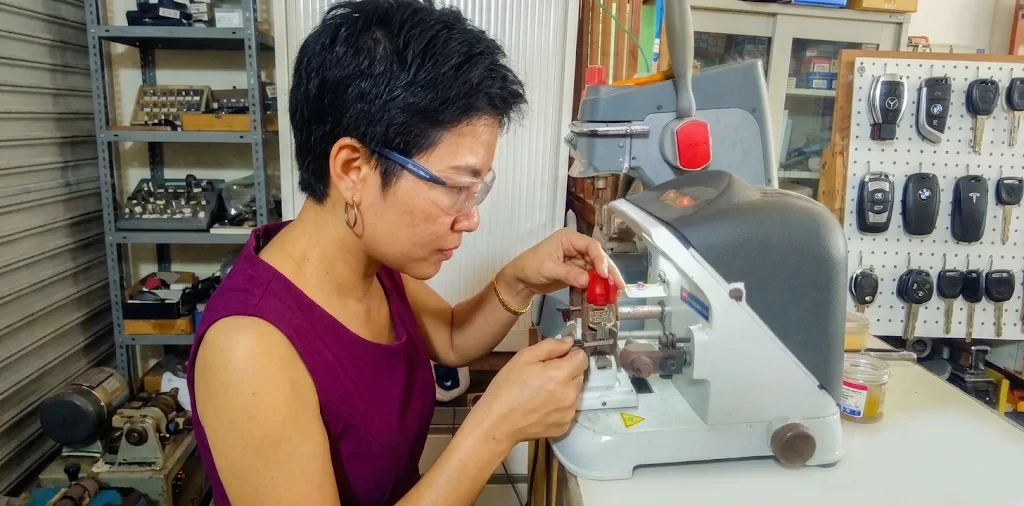
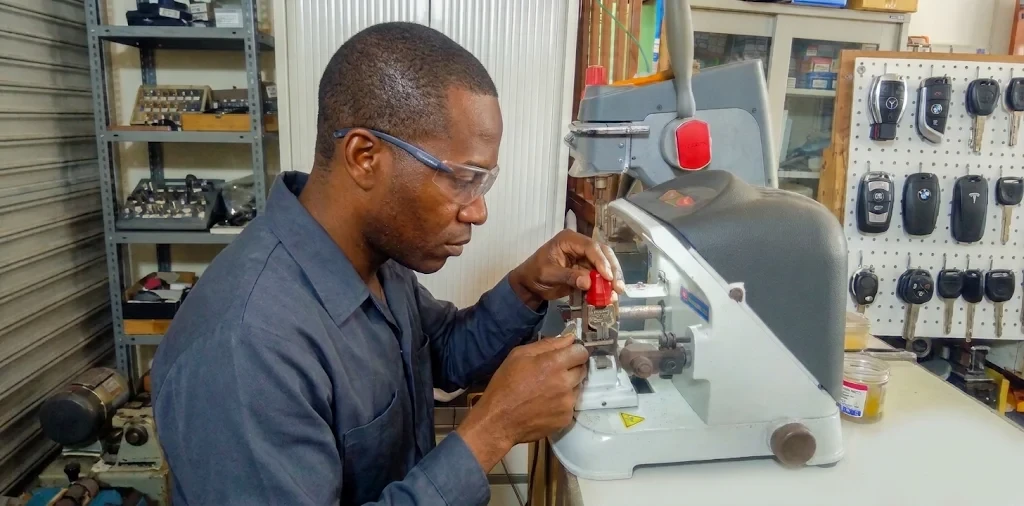
feat(accueil): nouvelle photo du technicien à la machine à clés
- Remplace la photo dans le diaporama et la section « Refonte de clés »
- Paramètre ?v=2 pour que les navigateurs ne gardent pas l'ancienne image en cache

Changed region(s): [[0.125, 0.0, 0.625, 1.0], [0.5312, 0.919, 0.5625, 0.9783], [0.5938, 0.415, 0.625, 0.4447]]

diff --git a/resources/views/pages/home.blade.php b/resources/views/pages/home.blade.php
@@ -45,7 +45,7 @@
     <div class="hero-slider" aria-hidden="true">
         @foreach ([
             ['cles-toyota-tacoma.webp', '62% 58%'],
-            ['taille-cle-atelier.webp', '50% 45%'],
+            ['taille-cle-atelier.webp?v=2', '50% 45%'],
             ['cles-toyota-interieur.webp', '55% 50%'],
             ['taille-cle-condor.webp', '60% 40%'],
             ['cles-toyota-tundra-blanc.webp', '50% 55%'],
@@ -356,7 +356,7 @@
 <section class="refonte-section" id="refonte-cles">
     <div class="container refonte-grid">
         <div class="refonte-media">
-            <img src="{{ asset('images/photos/taille-cle-atelier.webp') }}" alt="Taille d’une clé sur machine dans l’atelier CAMER AUTO KEY" width="1024" height="506" loading="lazy">
+            <img src="{{ asset('images/photos/taille-cle-atelier.webp') }}?v=2" alt="Taille d’une clé sur machine dans l’atelier CAMER AUTO KEY" width="1024" height="506" loading="lazy">
             <div class="refonte-badge"><b>30 min</b><span>en moyenne pour<br>une clé complète</span></div>
         </div>
         <div class="refonte-content">
